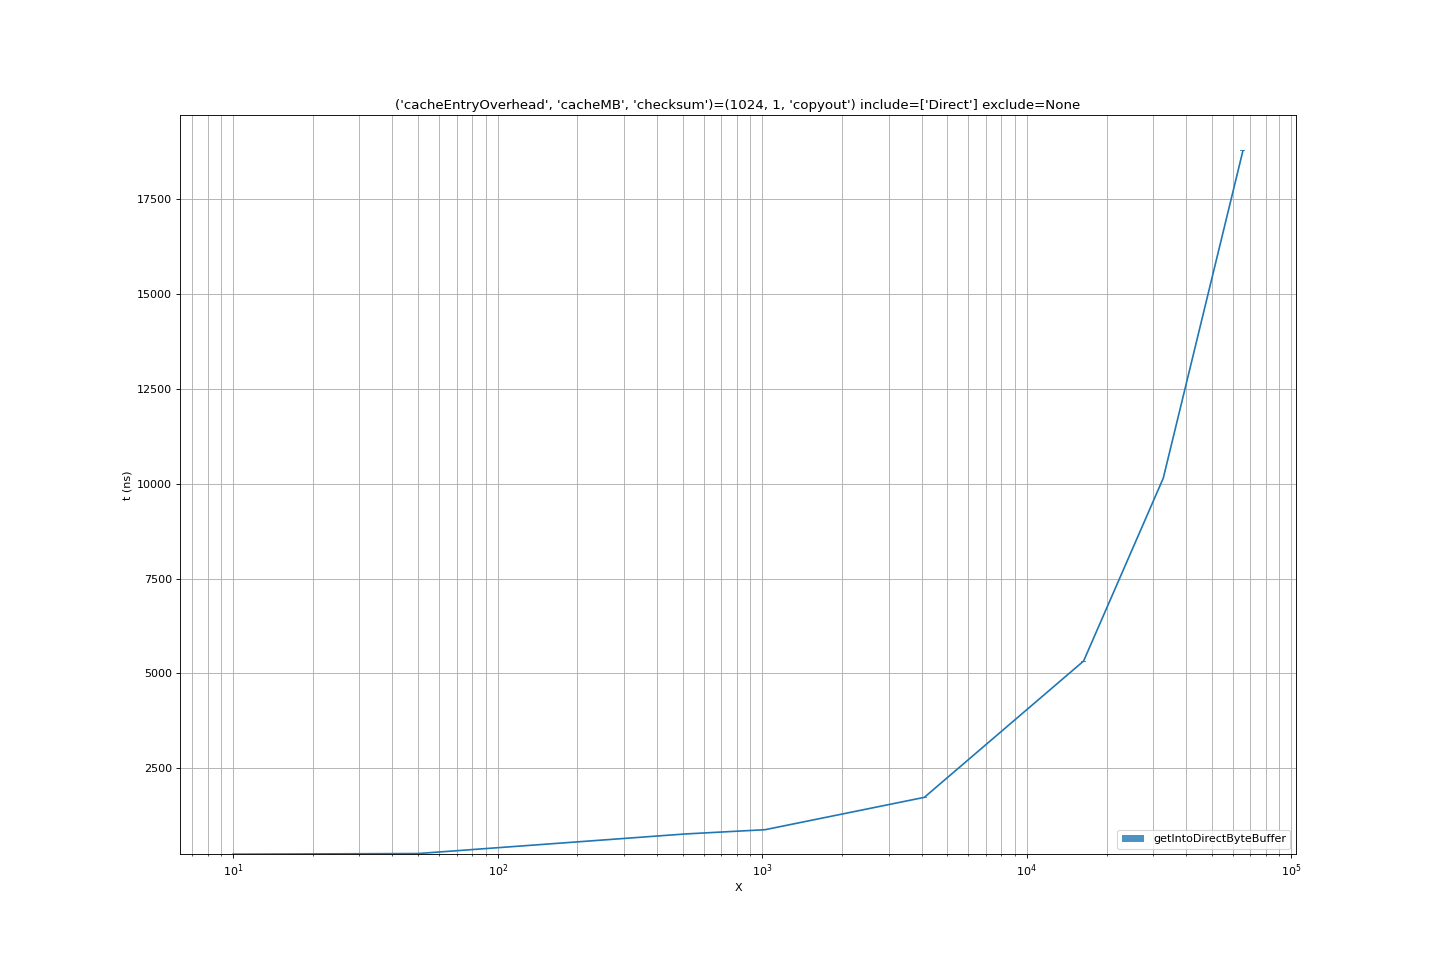
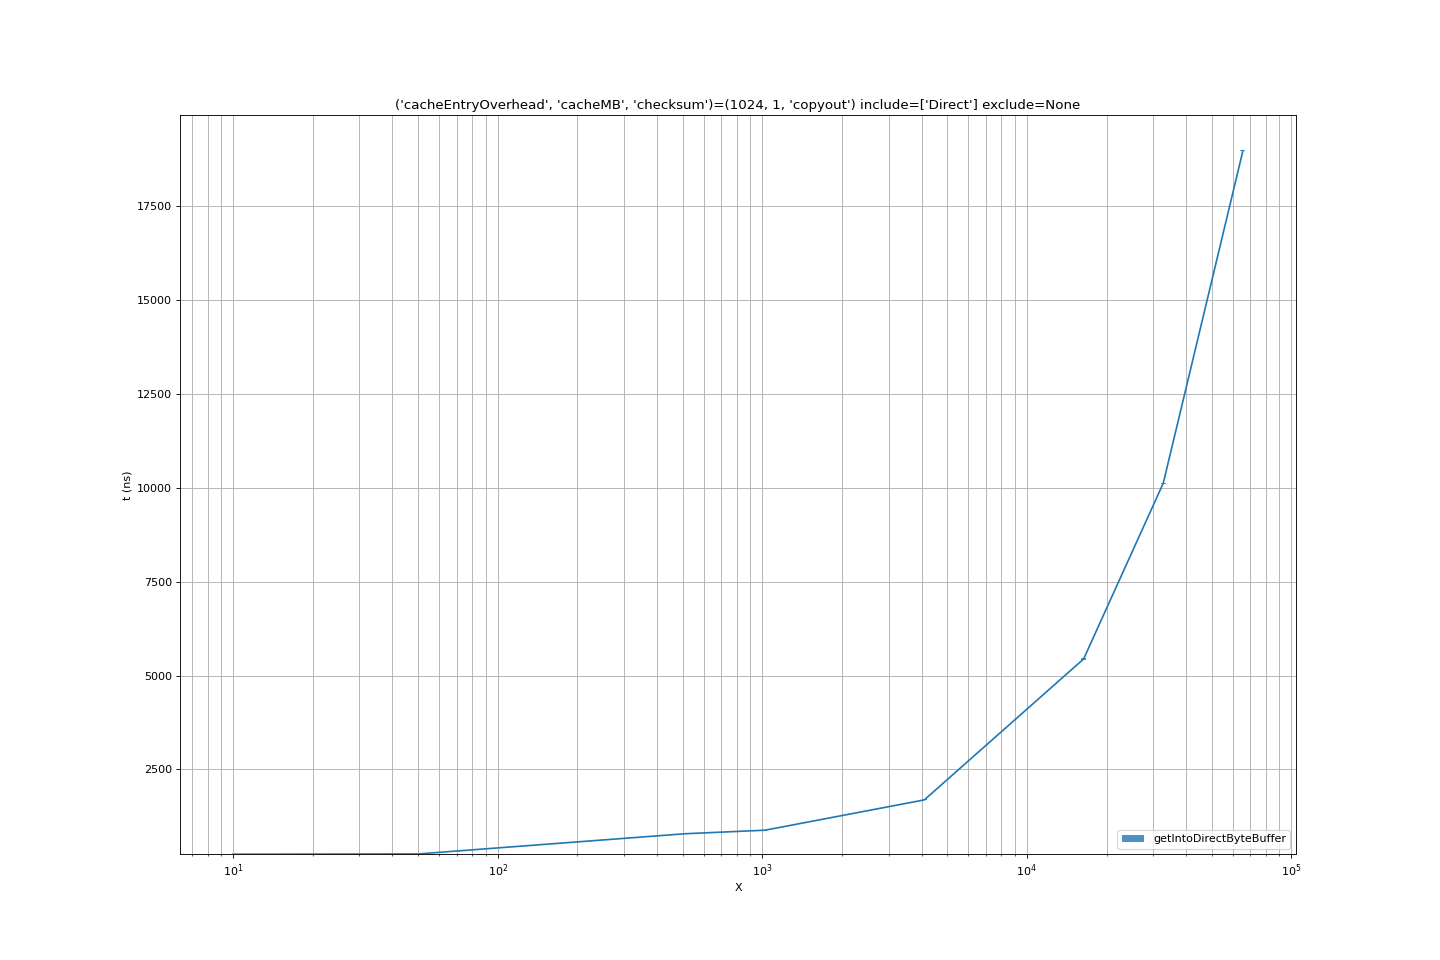
New get() run with fixed netty ByteBuf copyout

diff --git a/src/main/c++/bytearray/GetByteArray.cpp b/src/main/c++/bytearray/GetByteArray.cpp
@@ -71,7 +71,7 @@ struct WriteKey
   std::string key;
   size_t length;
 
-  WriteKey(const std::string &key, size_t length) : key(key), length(length)
+  WriteKey(const std::string &key, size_t length) : key(key, 38), length(length)
   {
   }
 };
@@ -100,18 +100,12 @@ static auto DB_WRITE_MOCK = std::unordered_map<WriteKey, char *>();
 
 char *GetByteArrayInternalForWrite(const char *key, size_t size)
 {
-  std::cout << "DB[" << DB_WRITE_MOCK.size() << "|" << key << "," << strlen(key) << "]";
   auto writeKey = WriteKey(key, size);
   auto it = DB_WRITE_MOCK.find(writeKey);
   if (it == DB_WRITE_MOCK.end())
   {
-    std::cout << "DB not found";
     DB_WRITE_MOCK[writeKey] = new char[size];
     it = DB_WRITE_MOCK.find(writeKey);
-  }
-  else
-  {
-    std::cout << "DB found";
   }
   return it->second;
 }

diff --git a/analysis/get_benchmarks/jmh_2021-05-31T18:04:48.379041.md b/analysis/get_benchmarks/jmh_2021-05-31T18:04:48.379041.md
@@ -1,7 +1,7 @@
 ## JMH Run
-This JMH run was generated on 2021-05-27T17:05:00.340945
+This JMH run was generated on 2021-05-31T18:04:48.379041
 #### Config
-The configuration was read from `/home/apaxton/jni-benchmarks/jmh_full_run.json`
+The configuration was read from `/home/apaxton/jni-benchmarks/jmh_full_get.json`
 ```json
 {
     "benchmark": "GetJNIBenchmark",
@@ -45,5 +45,5 @@ The configuration was read from `/home/apaxton/jni-benchmarks/jmh_full_run.json`
 #### Command
 The java command executed to run the tests
 ```
-java -Xmx4G -XX:ErrorFile=./results/hs_err_pid%p.log -XX:+HeapDumpOnOutOfMemoryError -Djava.library.path=target/jni-benchmarks-1.0.1-SNAPSHOT-application/jni-benchmarks-1.0.1-SNAPSHOT/lib -jar target/jni-benchmarks-1.0.1-SNAPSHOT-benchmarks.nar GetJNIBenchmark -p valueSize=10,50,512,1024,4096,8192,16384,32768,65536 -p cacheMB=1 -p checksum=none,copyout -bs 1 -wi 20 -w 50ms -i 50 -r 500ms -rff results/jmh_2021-05-27T17:05:00.340945/jmh_2021-05-27T17:05:00.340945.csv
+java -Xmx4G -XX:ErrorFile=./results/hs_err_pid%p.log -XX:+HeapDumpOnOutOfMemoryError -Djava.library.path=target/jni-benchmarks-1.0.1-SNAPSHOT-application/jni-benchmarks-1.0.1-SNAPSHOT/lib -jar target/jni-benchmarks-1.0.1-SNAPSHOT-benchmarks.nar GetJNIBenchmark -p valueSize=10,50,512,1024,4096,8192,16384,32768,65536 -p cacheMB=1 -p checksum=none,copyout -bs 1 -wi 20 -w 50ms -i 50 -r 500ms -rff results/jmh_2021-05-31T18:04:48.379041/jmh_2021-05-31T18:04:48.379041.csv
 ```
